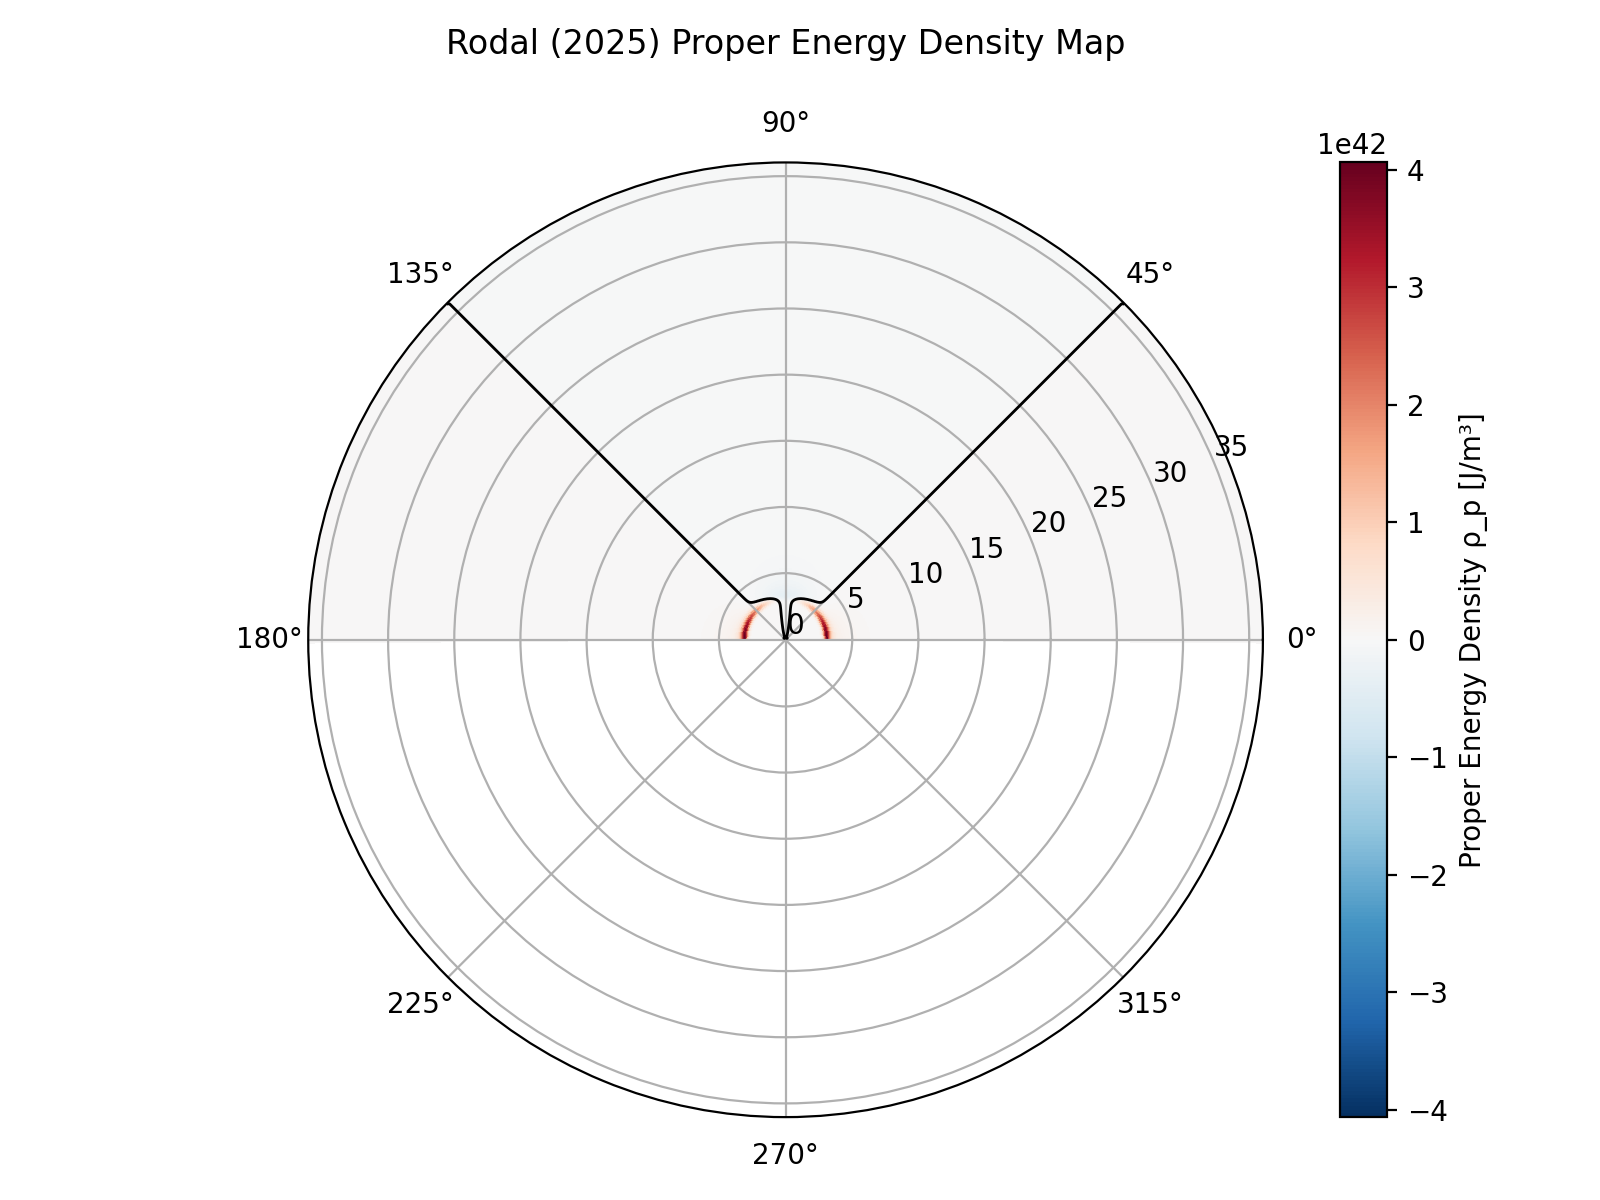
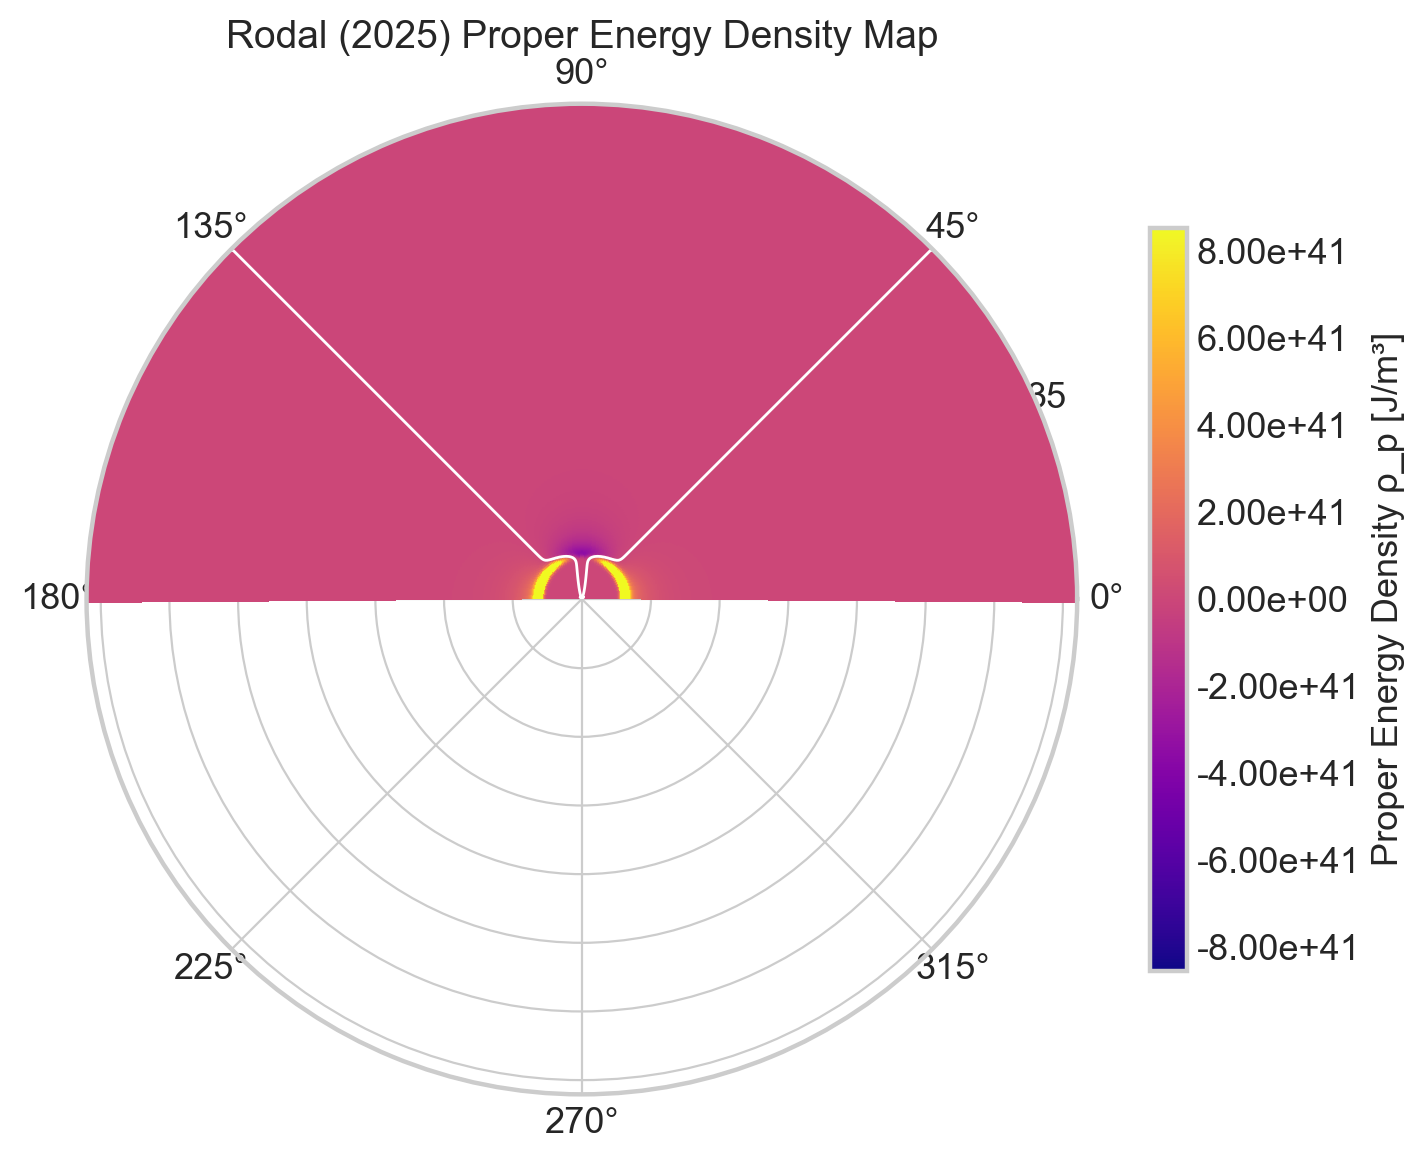
Add convergence checks, shared plot style, tau0 justification, and phase-space figure cleanup

diff --git a/metric_explorer.py b/metric_explorer.py
@@ -35,6 +35,7 @@ matplotlib.use('Agg')
 import matplotlib.pyplot as plt
 import warnings
 from constants import HBAR, C, G
+from plot_style import setup_plot_style
 
 # ── Compatibility: np.trapz was removed in NumPy 2.0 ─────────────
 try:
@@ -47,25 +48,8 @@ c    = C
 G    = G
 hbar = HBAR
 
-# ── Matplotlib style ──────────────────────────────────────────────
-try:
-    plt.style.use('seaborn-v0_8-whitegrid')
-except OSError:
-    pass  # fallback to default
-
-plt.rcParams.update({
-    'font.size': 13,
-    'axes.titlesize': 14,
-    'axes.labelsize': 13,
-    'axes.linewidth': 1.6,
-    'lines.linewidth': 2.2,
-    'xtick.major.width': 1.4,
-    'ytick.major.width': 1.4,
-    'legend.fontsize': 11,
-    'figure.dpi': 120,
-    'savefig.dpi': 200,
-    'savefig.bbox': 'tight',
-})
+# ── Apply shared Matplotlib style (see plot_style.py) ────────────
+setup_plot_style()
 
 # ═════════════════════════════════════════════════════════════════
 #   1.  SHAPING FUNCTIONS  f(r_s)
@@ -231,7 +215,101 @@ def rodal_global_energy(v_s, R, sigma, r_max_factor=12.0, Nr=500, Nth=200):
 
 
 # ═════════════════════════════════════════════════════════════════
-#   3.  COMPARISON DRIVER
+#   3.  CONVERGENCE CHECK
+# ═════════════════════════════════════════════════════════════════
+
+def convergence_check_all_metrics(v_s, R, Delta, include_rodal=True):
+    """
+    Check numerical convergence of the energy integrals for all metrics.
+
+    For Alcubierre and White-Natário (1-D), runs `total_energy()` at four
+    radial grid resolutions: N = 1000, 2000, 4000, 8000 points over [0.01, 4R].
+
+    For Rodal (2-D), runs `rodal_global_energy()` at three (Nr, Nth) pairs:
+    (500, 200), (800, 300), (1200, 450).
+
+    Prints the energy at each resolution and the relative change from the
+    previous level.  Declares convergence if the two finest resolutions agree
+    to better than 0.1 %.
+    """
+    sigma = 1.0 / Delta
+
+    print(f"\n{'='*65}")
+    print(f"  CONVERGENCE CHECK  (v_s={v_s/c:.2f}c, R={R} m, Δ={Delta} m)")
+    print(f"{'='*65}")
+
+    # ── 1-D metrics (Alcubierre, White-Natário) ───────────────────
+    resolutions_1d = [1000, 2000, 4000, 8000]
+    metric_fns = [
+        ("Alcubierre 1994", f_alcubierre),
+        ("White-Natário",   f_white_modified),
+    ]
+
+    for metric_name, shaping_fn in metric_fns:
+        print(f"\n  {metric_name}:")
+        print(f"    {'N pts':>8}  {'E_total [J]':>18}  {'Rel. change':>14}")
+        print(f"    {'-'*8}  {'-'*18}  {'-'*14}")
+        prev_E = None
+        last_two = []
+        for N in resolutions_1d:
+            r_s   = np.linspace(0.01, 4 * R, N)
+            f_vals = shaping_fn(r_s, R, sigma)
+            rho   = rho_from_shaping(r_s, f_vals, v_s)
+            E     = total_energy(r_s, rho)
+            if prev_E is not None and prev_E != 0:
+                rel_change = abs((E - prev_E) / prev_E)
+                print(f"    {N:>8d}  {E:>18.6e}  {rel_change:>13.4%}")
+            else:
+                print(f"    {N:>8d}  {E:>18.6e}  {'(baseline)':>14}")
+            last_two.append(E)
+            if len(last_two) > 2:
+                last_two.pop(0)
+            prev_E = E
+        # Convergence verdict on the two finest resolutions
+        if len(last_two) == 2 and last_two[0] != 0:
+            finest_rel = abs((last_two[1] - last_two[0]) / last_two[0])
+            if finest_rel < 0.001:
+                print(f"    ✓ CONVERGED to better than 0.1 % at N=4000→8000 "
+                      f"(Δrel={finest_rel:.4%})")
+            else:
+                print(f"    ⚠ WARNING: result may NOT be fully converged "
+                      f"(Δrel={finest_rel:.4%} between N=4000 and N=8000)")
+
+    # ── Rodal (2-D) ───────────────────────────────────────────────
+    if include_rodal:
+        print(f"\n  Rodal (2025) – 2-D integration:")
+        print(f"    {'(Nr, Nth)':>12}  {'E_minus [J]':>18}  {'Rel. change':>14}")
+        print(f"    {'-'*12}  {'-'*18}  {'-'*14}")
+        rodal_grids = [(500, 200), (800, 300), (1200, 450)]
+        prev_Em = None
+        last_two_r = []
+        for Nr, Nth in rodal_grids:
+            res  = rodal_global_energy(v_s, R, sigma, Nr=Nr, Nth=Nth)
+            Em   = res['E_minus']
+            lbl  = f"({Nr}, {Nth})"
+            if prev_Em is not None and prev_Em != 0:
+                rel_change = abs((Em - prev_Em) / prev_Em)
+                print(f"    {lbl:>12}  {Em:>18.6e}  {rel_change:>13.4%}")
+            else:
+                print(f"    {lbl:>12}  {Em:>18.6e}  {'(baseline)':>14}")
+            last_two_r.append(Em)
+            if len(last_two_r) > 2:
+                last_two_r.pop(0)
+            prev_Em = Em
+        if len(last_two_r) == 2 and last_two_r[0] != 0:
+            finest_rel = abs((last_two_r[1] - last_two_r[0]) / last_two_r[0])
+            if finest_rel < 0.001:
+                print(f"    ✓ CONVERGED to better than 0.1 % at (800,300)→(1200,450) "
+                      f"(Δrel={finest_rel:.4%})")
+            else:
+                print(f"    ⚠ WARNING: result may NOT be fully converged "
+                      f"(Δrel={finest_rel:.4%} between (800,300) and (1200,450))")
+
+    print(f"{'='*65}")
+
+
+# ═════════════════════════════════════════════════════════════════
+#   4.  COMPARISON DRIVER
 # ═════════════════════════════════════════════════════════════════
 
 def run_metric_comparison(v_s, R, Delta, save_plots=True, include_rodal=True):
@@ -317,8 +395,19 @@ def run_metric_comparison(v_s, R, Delta, save_plots=True, include_rodal=True):
     print(f"  Total E_+            :              > 0.0       POS")
     print(f"  QI gap factor        :       N/A (Bypassed)        ")
 
+    # ── Convergence check ─────────────────────────────────────────
+    convergence_check_all_metrics(v_s, R, Delta, include_rodal=include_rodal)
+
     # ── QI gap cross-reference (Ford–Roman bound) ─────────────────
     # All metrics now use numerically computed V_minus instead of thin-shell
+    #
+    # τ₀ = Δ/c is the light-crossing time of the bubble wall, the standard
+    # choice in the warp-drive QI literature (Pfenning & Ford 1997, Lobo &
+    # Visser 2004). Because the QI bound scales as τ₀⁻⁴, varying τ₀ by a
+    # factor of 2 changes the QI cap by a factor of 16, which is negligible
+    # compared to the >60-order-of-magnitude gaps reported here. The
+    # qualitative conclusion is robust to any physically reasonable sampling
+    # time.
     tau0_qi   = Delta / c
     rho_qi    = -(3 * hbar) / (32 * np.pi**2 * c**3 * tau0_qi**4)
 

diff --git a/plot_style.py b/plot_style.py
@@ -1,0 +1,46 @@
+"""
+plot_style.py – Shared Matplotlib Style
+========================================
+
+Centralises all Matplotlib style settings so that metric_explorer.py and
+testfisico.py always produce visually consistent figures without duplicating
+the configuration block.
+
+Usage
+-----
+    from plot_style import setup_plot_style
+    setup_plot_style()
+
+Call this once at module import time (after `import matplotlib.pyplot as plt`).
+"""
+
+import matplotlib.pyplot as plt
+
+
+def setup_plot_style():
+    """
+    Apply the project-wide Matplotlib style:
+
+    - Base style: 'seaborn-v0_8-whitegrid' (falls back to defaults if
+      the style name is unavailable in older Matplotlib versions).
+    - Large, readable fonts with thick axis lines for print/PDF quality.
+    - High-DPI defaults for both screen rendering and saved files.
+    """
+    try:
+        plt.style.use('seaborn-v0_8-whitegrid')
+    except OSError:
+        pass  # fallback to Matplotlib defaults
+
+    plt.rcParams.update({
+        'font.size':          13,
+        'axes.titlesize':     14,
+        'axes.labelsize':     13,
+        'axes.linewidth':     1.6,
+        'lines.linewidth':    2.2,
+        'xtick.major.width':  1.4,
+        'ytick.major.width':  1.4,
+        'legend.fontsize':    11,
+        'figure.dpi':         120,
+        'savefig.dpi':        200,
+        'savefig.bbox':       'tight',
+    })

diff --git a/testfisico.py b/testfisico.py
@@ -11,25 +11,10 @@ from metric_explorer import (
     negative_energy_volume,
 )
 from constants import HBAR, C, G
+from plot_style import setup_plot_style
 
-# ── Matplotlib style ──────────────────────────────────────────────
-try:
-    plt.style.use('seaborn-v0_8-whitegrid')
-except OSError:
-    pass
-
-plt.rcParams.update({
-    'font.size': 13,
-    'axes.titlesize': 14,
-    'axes.labelsize': 13,
-    'axes.linewidth': 1.6,
-    'lines.linewidth': 2.2,
-    'xtick.major.width': 1.4,
-    'ytick.major.width': 1.4,
-    'legend.fontsize': 11,
-    'savefig.dpi': 200,
-    'savefig.bbox': 'tight',
-})
+# ── Apply shared Matplotlib style (see plot_style.py) ────────────
+setup_plot_style()
 
 CONFIG = dict(
     Delta       = 0.2614,

diff --git a/paper.md b/paper.md
@@ -46,7 +46,7 @@ The code has been verified against published results: it correctly reproduces th
 
 # Usage and Implementation
 
-The core computation relies on the `metric_explorer.py` module, which defines bubble profiles, calculates the relevant stress-energy components, and evaluates the QI bound via numerical integration. All QI volume calculations use the actual negative-energy volume V₋ computed numerically from the energy density profile. Dependencies include NumPy, SciPy, and Matplotlib. The software is version-controlled on GitHub and permanently archived on Zenodo with DOI: 10.5281/zenodo.19862376.
+The core computation relies on the `metric_explorer.py` module, which defines bubble profiles, calculates the relevant stress-energy components, and evaluates the QI bound via numerical integration. All QI volume calculations use the actual negative-energy volume V₋ computed numerically from the energy density profile. The QI sampling time is set to τ₀ = Δ/c, the light-crossing time of the bubble wall, following the standard convention in the warp-drive QI literature (Pfenning & Ford 1997; Lobo & Visser 2004); because the Ford–Roman bound scales as τ₀⁻⁴, varying τ₀ by a factor of two changes the QI cap by only a factor of 16, which is negligible relative to the >60-orders-of-magnitude gaps reported, so the qualitative conclusion is robust to any physically reasonable choice of sampling time. Dependencies include NumPy, SciPy, and Matplotlib. The software is version-controlled on GitHub and permanently archived on Zenodo with DOI: 10.5281/zenodo.19862376.
 
 # Figures
 